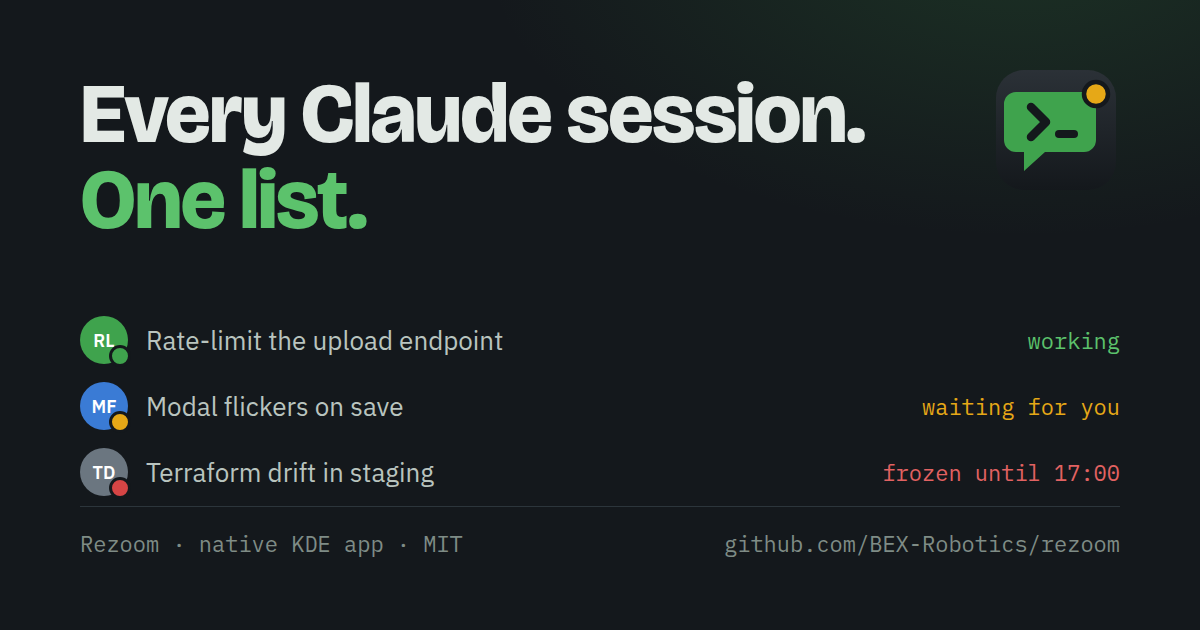
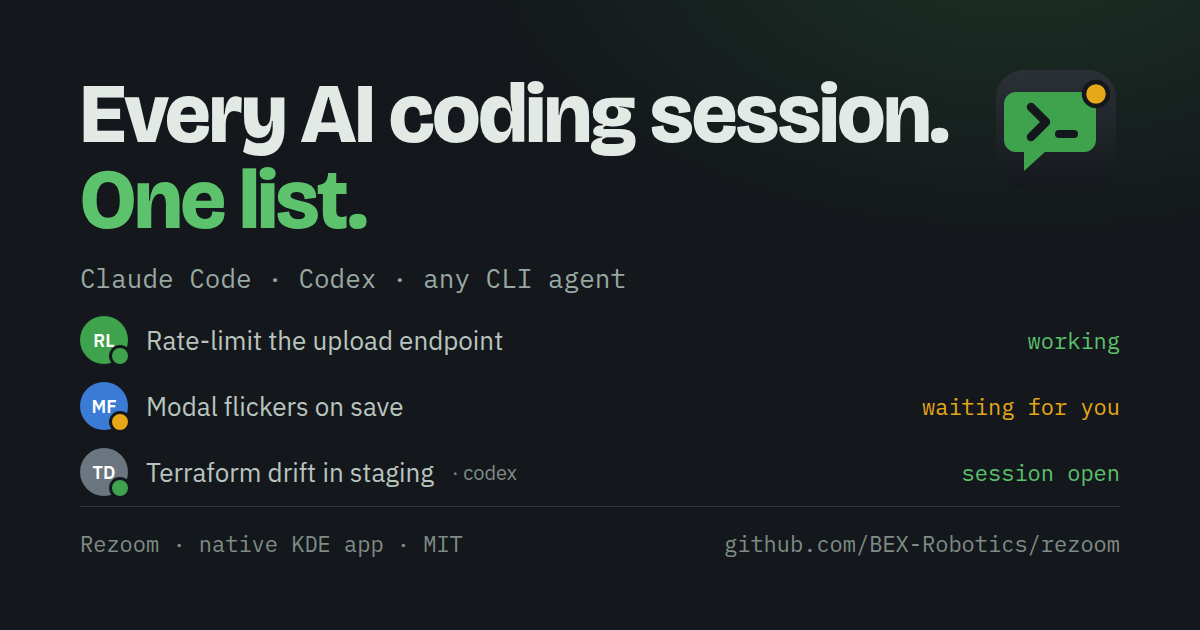
README + docs: frame Rezoom as multi-agent, with per-agent support levels
The pitch said Claude; Rezoom also runs Codex and any CLI agent. The
intro now says so and states what each level actually gets, so the
claim holds when people try it. Social card re-rendered to match.

Claude-Session: https://claude.ai/code/session_01UQ7uUdDF5XgskSmfLuNtvg

diff --git a/README.md b/README.md
@@ -1,9 +1,15 @@
 # Rezoom
 
-**One chat list for every Claude Code session on your machine.** Rezoom shows each
-Claude Code, Codex, ssh, tmux or shell session as a chat: what it's doing right now,
-what it last said, and one click to bring it back. Native C++/Qt6, follows your
-KDE light/dark theme, embeds real Konsole terminals.
+**One chat list for every AI coding session on your machine.** Rezoom shows each
+agent, ssh, tmux or shell session as a chat: what it's doing right now, what it last
+said, and one click to bring it back. Native C++/Qt6, follows your KDE light/dark
+theme, embeds real Konsole terminals.
+
+| Agent | What Rezoom knows |
+|---|---|
+| **Claude Code** | live state (working, waiting, frozen), live title and output, auto-adopt, freeze detection |
+| **Codex** | found in history, adopted, resumed with `codex resume`, detected when started in a pane |
+| **Any other CLI agent** (aider, Gemini CLI, opencode…) | runs as a terminal chat; resumable through a command template in Settings |
 
 [![CI](https://github.com/BEX-Robotics/rezoom/actions/workflows/ci.yml/badge.svg)](https://github.com/BEX-Robotics/rezoom/actions/workflows/ci.yml)
 [![Release](https://img.shields.io/github/v/release/BEX-Robotics/rezoom)](https://github.com/BEX-Robotics/rezoom/releases)
